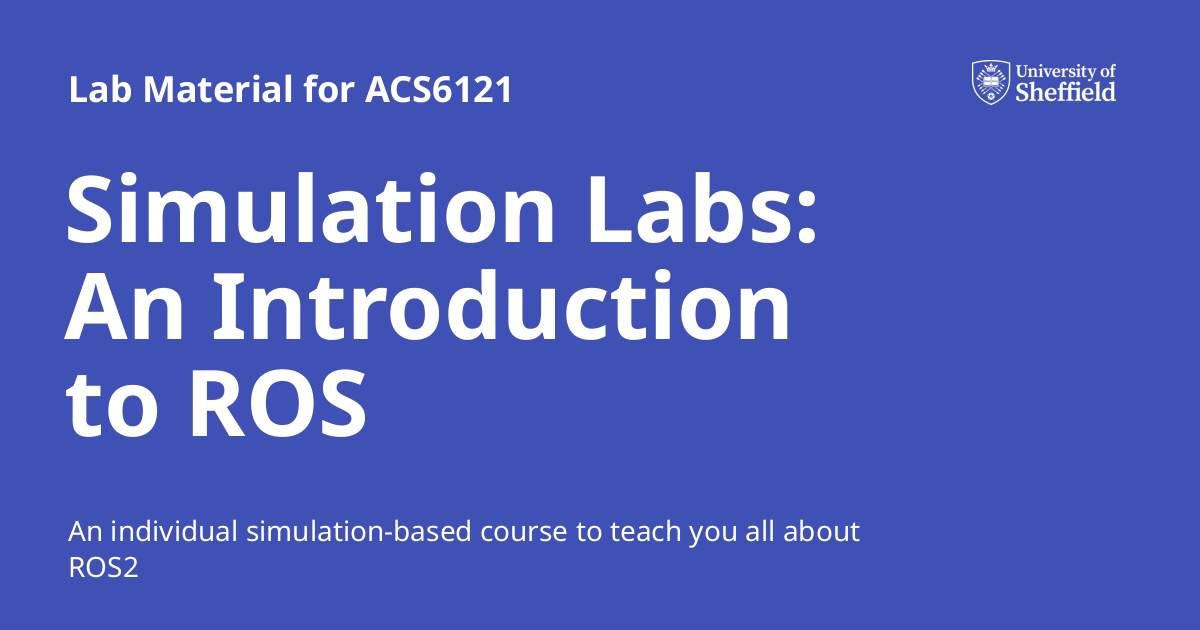
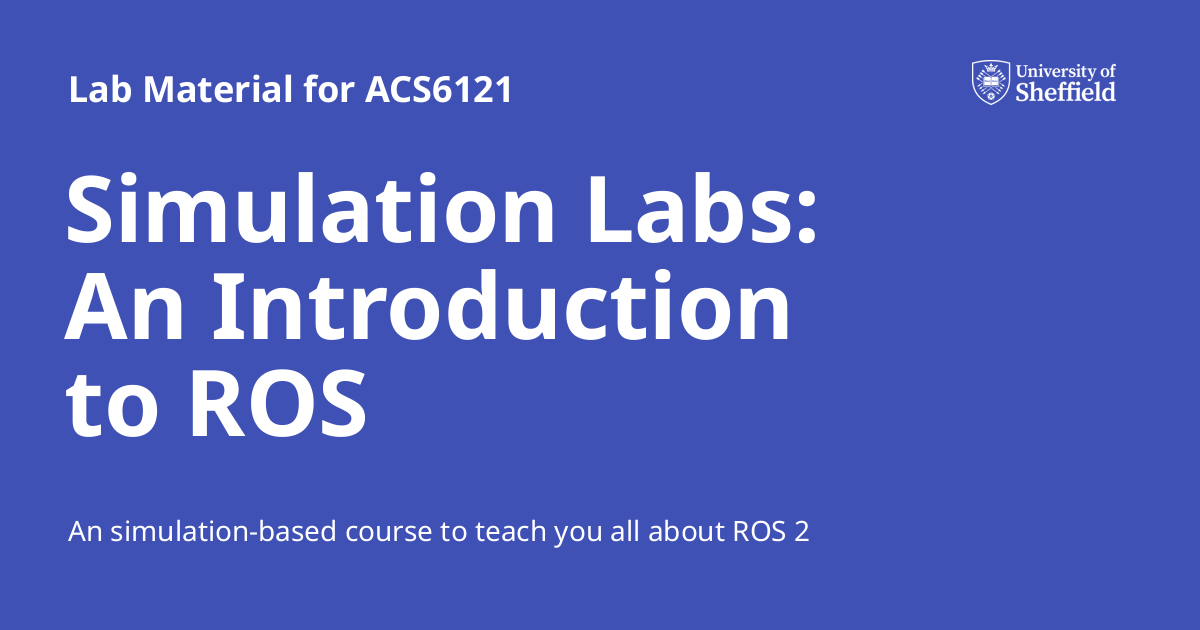
Deployed 82bf57f with MkDocs version: 1.6.1

Changed region(s): [[0.0617, 0.8143, 0.7092, 0.9349]]

diff --git a/course/sim/index.html b/course/sim/index.html
@@ -6,7 +6,7 @@
       <meta charset="utf-8">
       <meta name="viewport" content="width=device-width,initial-scale=1">
       
-        <meta name="description" content="An individual simulation-based course to teach you all about ROS2">
+        <meta name="description" content="An simulation-based course to teach you all about ROS 2">
       
       
       
@@ -65,7 +65,7 @@
       
         <meta  property="og:title"  content="Simulation Labs: An Introduction to ROS - Lab Material for ACS6121" >
       
-        <meta  property="og:description"  content="An individual simulation-based course to teach you all about ROS2" >
+        <meta  property="og:description"  content="An simulation-based course to teach you all about ROS 2" >
       
         <meta  property="og:image"  content="https://tom-howard.github.io/acs6121/assets/images/social/course/sim/README.png" >
       
@@ -81,7 +81,7 @@
       
         <meta  name="twitter:title"  content="Simulation Labs: An Introduction to ROS - Lab Material for ACS6121" >
       
-        <meta  name="twitter:description"  content="An individual simulation-based course to teach you all about ROS2" >
+        <meta  name="twitter:description"  content="An simulation-based course to teach you all about ROS 2" >
       
         <meta  name="twitter:image"  content="https://tom-howard.github.io/acs6121/assets/images/social/course/sim/README.png" >
       
@@ -1648,7 +1648,7 @@
     <span class="md-icon" title="Last update">
       <svg xmlns="http://www.w3.org/2000/svg" viewBox="0 0 24 24"><path d="M21 13.1c-.1 0-.3.1-.4.2l-1 1 2.1 2.1 1-1c.2-.2.2-.6 0-.8l-1.3-1.3c-.1-.1-.2-.2-.4-.2m-1.9 1.8-6.1 6V23h2.1l6.1-6.1zM12.5 7v5.2l4 2.4-1 1L11 13V7zM11 21.9c-5.1-.5-9-4.8-9-9.9C2 6.5 6.5 2 12 2c5.3 0 9.6 4.1 10 9.3-.3-.1-.6-.2-1-.2s-.7.1-1 .2C19.6 7.2 16.2 4 12 4c-4.4 0-8 3.6-8 8 0 4.1 3.1 7.5 7.1 7.9l-.1.2z"/></svg>
     </span>
-    <span class="git-revision-date-localized-plugin git-revision-date-localized-plugin-timeago"><span class="timeago" datetime="2025-02-14T14:26:07+00:00" locale="en"></span></span><span class="git-revision-date-localized-plugin git-revision-date-localized-plugin-iso_date">2025-02-14</span>
+    <span class="git-revision-date-localized-plugin git-revision-date-localized-plugin-timeago"><span class="timeago" datetime="2025-02-14T14:38:50+00:00" locale="en"></span></span><span class="git-revision-date-localized-plugin git-revision-date-localized-plugin-iso_date">2025-02-14</span>
   </span>
 
     
